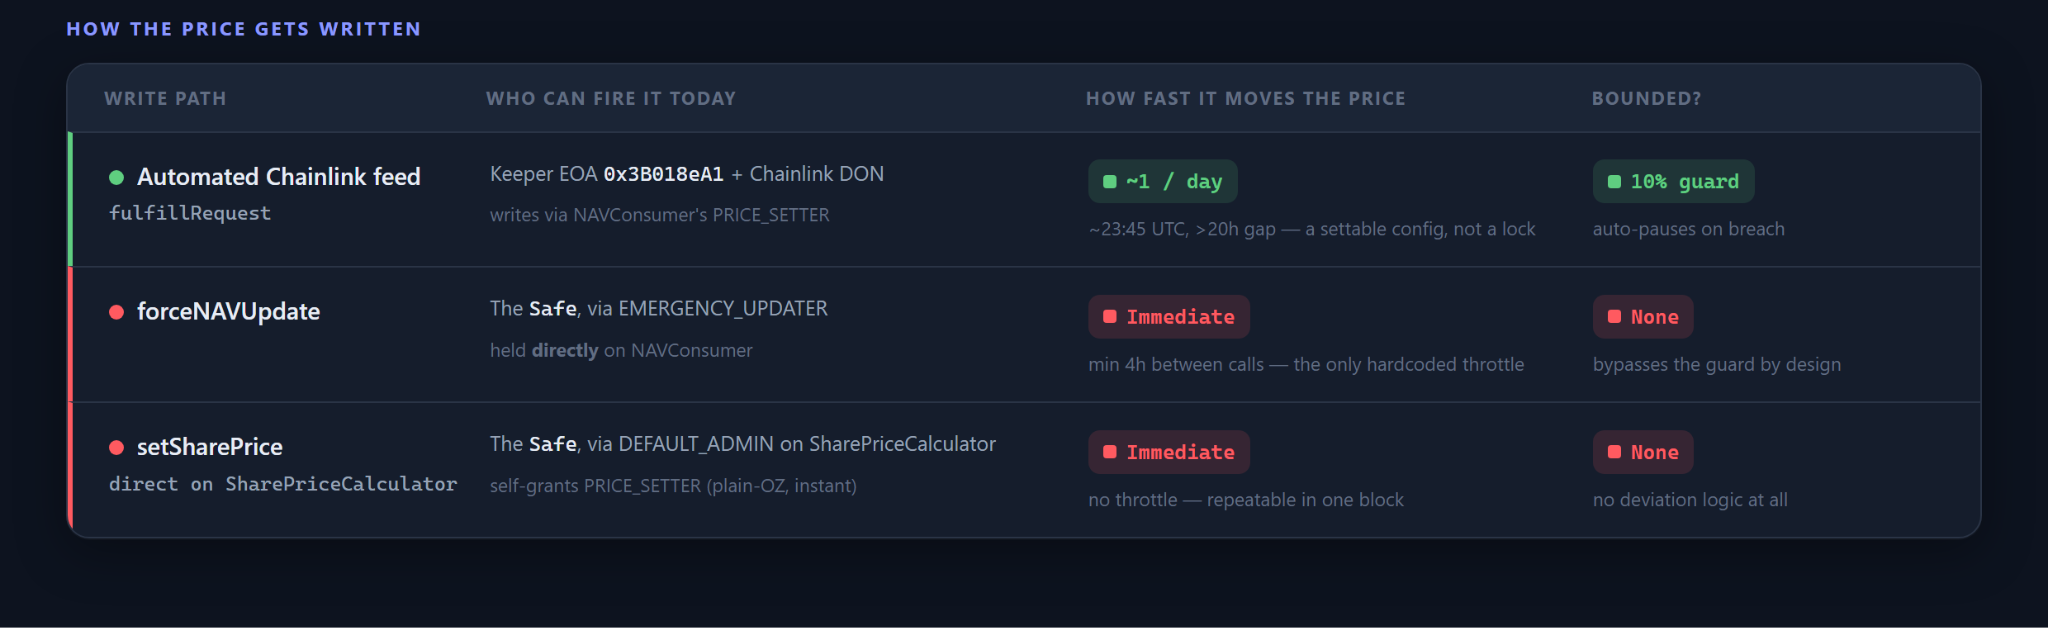
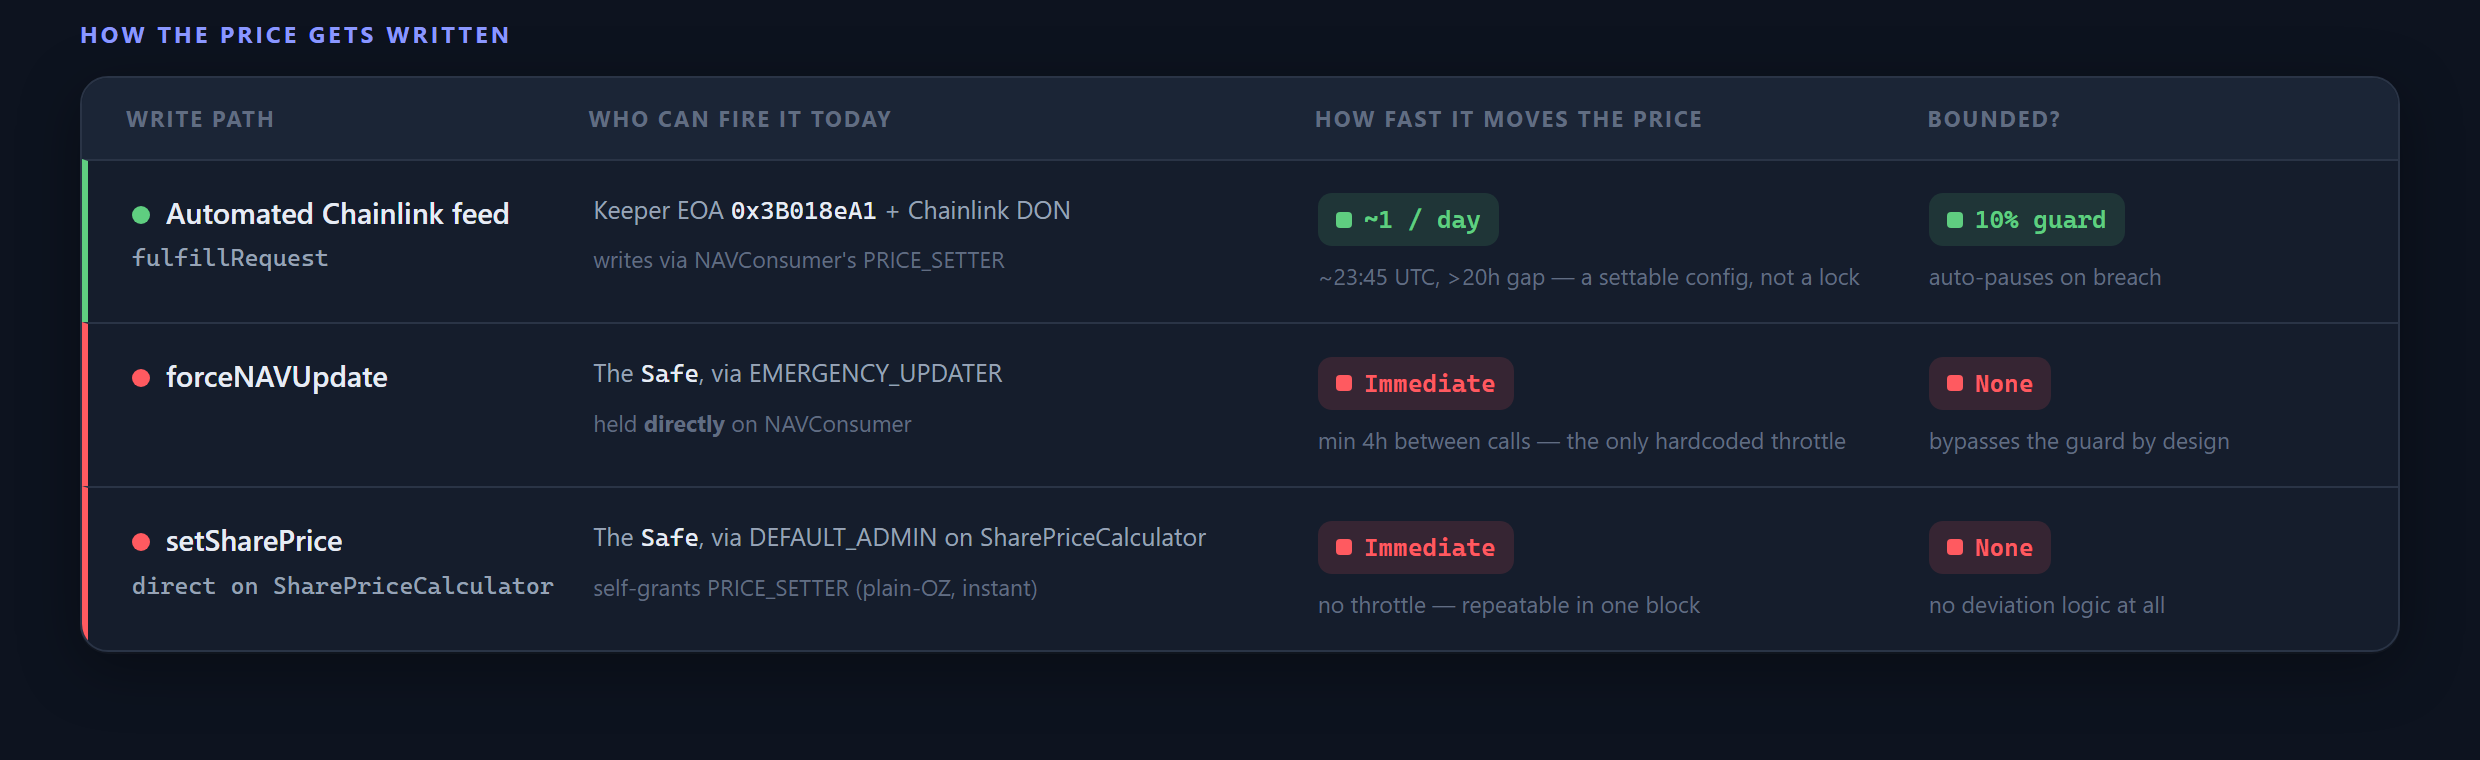
Add files via upload

diff --git a/reUSD_protocol/reUSD_FiRM_collateral_prescreening/reUSD_FiRM_collateral_prescreening.md b/reUSD_protocol/reUSD_FiRM_collateral_prescreening/reUSD_FiRM_collateral_prescreening.md
@@ -139,8 +139,8 @@ This table is the assessment. Status grades the pinned snapshot; the Remediation
 | **5. Mint & Redemption Halt Authority** | 🟠 **FLAG** | Mint pausable instantly by one EOA; instant redemption closable in one tx by another; neither timelocked nor multisig-held; token keeps trading through any halt → depeg-then-markdown, not frozen collateral. Graded on reliance, not the feature: comparable shutoffs on Ethena/USR/deUSD were treated as security features, but here the switched-off pipe is load-bearing (redemption is both primary exit and the arb glue at \~$3.75M realizable DEX depth). | Ask: None. Real-time monitoring of redemption lane shutdown and indications of unbacked minting. |
 | **6. On-chain Liquidity** | 🟠 **FLAG** | \~$25.4M DEX TVL vs \~$152.5M supply-at-NAV; \~$3.75M single-swap realizable before the dominant venue stops filling; Curve depth incentive-carried; dominant venue re-centers on NAV so depth does not imply price discovery. | Ask: None. FiRM-side: ceiling and CF sized according to the ability of liquidations to clear inside it; low initial ceiling. jrDOLA deposits are a listing precondition per the verdict, not an optional enhancement; ceiling scales with realized jrDOLA capacity. Lower CF also absorbs the NAV influence complexity. |
 | **7. Protocol Maturity (Lindy)** | 🟠 **FLAG** | Token + ICL implementations unmodified since 2025-01-21 (\~17.5 months). CCIP mint layer and AM periphery are 1–2 months old. | Ask: None. Periphery Lindy accrues with time; no ask beyond 3a scope coverage. Re-interpret per-upgrade if core implementations change (function-count deltas are a reassessment trigger). |
-| **8. On-chain Track Record** | 🟠 **EARLY** | \~17.5 months live; 421 daily NAV writes (\~+1.8 bps/day), no anomaly; forceNAVUpdate used once with documented reason. Untested: large redemption event / stress event, insurance loss reaching the reUSDe buffer, and governance — RE voting has no track record and could in principle direct longtail collateral additions (the DUSD pattern). | Ask: None. RWG Monitored. |
-| **9. Governance & Decentralization** | 🟠 **EARLY** | Operative governance is the Safe 3/5 (signers on-chain-verifiable; one EIP-7702-delegated). RE governance \~3 weeks old, no observed authority wiring, \~16% float with multi-year unlocks. | Ask: intended RE-governance integration path with the AM/Safe, increase Safe Quorum and Timelock + AM delays where critical. |
+| **8. On-chain Track Record** | 🟡 **EARLY** | \~17.5 months live; 421 daily NAV writes (\~+1.8 bps/day), no anomaly; forceNAVUpdate used once with documented reason. Untested: large redemption event / stress event, insurance loss reaching the reUSDe buffer, and governance — RE voting has no track record and could in principle direct longtail collateral additions (the DUSD pattern). | Ask: None. RWG Monitored. |
+| **9. Governance & Decentralization** | 🟡 **EARLY** | Operative governance is the Safe 3/5 (signers on-chain-verifiable; one EIP-7702-delegated). RE governance \~3 weeks old, no observed authority wiring, \~16% float with multi-year unlocks. | Ask: intended RE-governance integration path with the AM/Safe, increase Safe Quorum and Timelock + AM delays where critical. |
 | **10. Documentation-vs-On-Chain Alignment** | 🟠 **FLAG** | “48h timelock, no bypass” and “MPC governance” both fail against chain state (operative root is a Gnosis Safe; upgrade bypass exists); PoR transparency framing overstates enforcement (informational only). Substantive teeth live in rows 1–2; this row grades the documentation practice itself. | Ask: mitigate the on-chain bypass; revoke DEFAULT_ADMIN role from Gnosis Safe. |
 | **11. Freeze / Blocklist** | 🟢 **PASS** | Token confirmed free of transfer hooks, blacklist, and pause — trading and FiRM liquidations cannot be frozen at the token level. System-level pauses (ICL mint, redemption) graded in row 5. | Ask: None. Map pause states against FiRM liquidation paths in the full assessment. |
 | **12. Permissioning Profile** | 🟠 **FLAG** | KYC-gated non-U.S.-only mint/redeem narrows the arbitrageur/liquidator-refill set; 3 KYC provider EOAs can revoke standing approvals (can strand a liquidator's redemption path). Secondary transfers permissionless. | Ask: None (regulatory design). FiRM-side: liquidator path assumes no primary-market access; KYC-revocation events monitored. |
